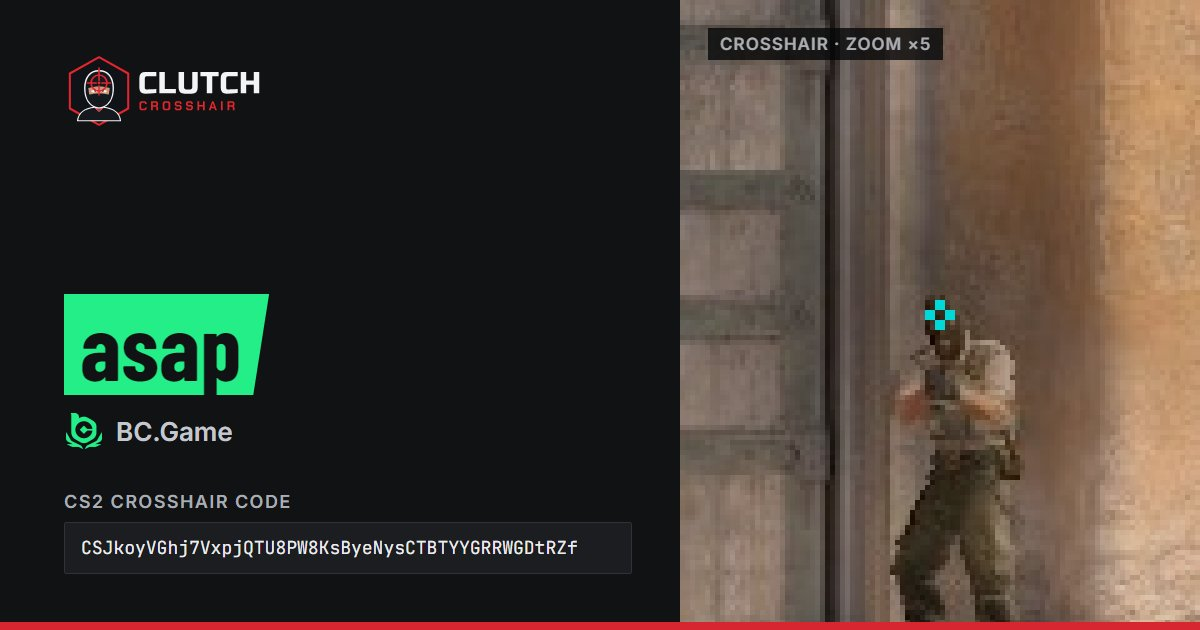
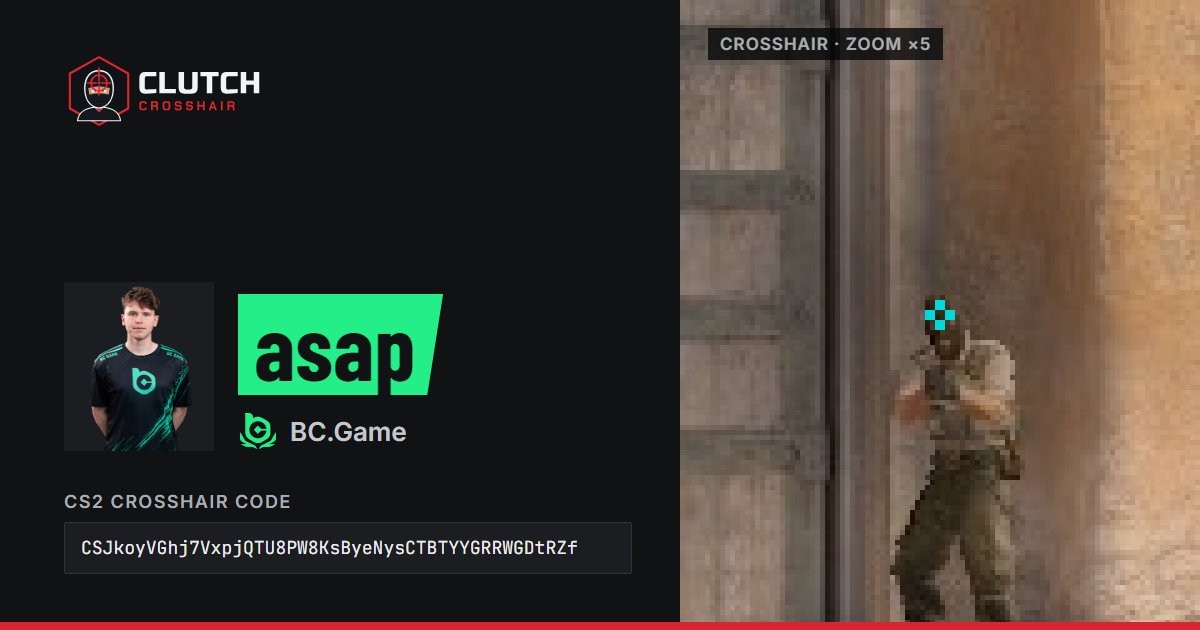
Photo : asap (tous les joueurs ont leur photo)

Changed region(s): [[0.0308, 0.4524, 0.37, 0.7238]]

diff --git a/ru/players/asap.html b/ru/players/asap.html
@@ -38,21 +38,21 @@
     <meta property="og:title" content="Прицел asap в CS2: код">
     <meta property="og:description" content="Скопируйте код прицела asap (BC.Game) для CS2 в один клик: предпросмотр в реальном размере, консольные команды и настройки. Из матча от 22/10/2026.">
     <meta property="og:url" content="https://clutchcrosshair.com/ru/players/asap">
-    <meta property="og:image" content="https://clutchcrosshair.com/og/asap.jpg?v=7b72e6c3d7">
+    <meta property="og:image" content="https://clutchcrosshair.com/og/asap.jpg?v=5ab0ecd210">
     <meta property="og:image:width" content="1200">
     <meta property="og:image:height" content="630">
     <meta property="og:image:alt" content="Прицел asap в CS2: превью и код">
     <meta name="twitter:card" content="summary_large_image">
     <meta name="twitter:title" content="Прицел asap в CS2: код">
     <meta name="twitter:description" content="Скопируйте код прицела asap (BC.Game) для CS2 в один клик: предпросмотр в реальном размере, консольные команды и настройки. Из матча от 22/10/2026.">
-    <meta name="twitter:image" content="https://clutchcrosshair.com/og/asap.jpg?v=7b72e6c3d7">
+    <meta name="twitter:image" content="https://clutchcrosshair.com/og/asap.jpg?v=5ab0ecd210">
     <link rel="preload" href="../../fonts/inter-latin.woff2" as="font" type="font/woff2" crossorigin>
     <link rel="preload" href="../../fonts/barlow-condensed-700-latin.woff2" as="font" type="font/woff2" crossorigin>
     <link rel="stylesheet" href="../../style.min.css?v=681f2d2464">
     <link rel="modulepreload" href="../../crosshair.min.js?v=da13dcace5">
     <link rel="modulepreload" href="../../lib/csgo-sharecode.js">
     <link rel="preload" href="../../preview-bg.webp?v=282ecb7043" as="image" type="image/webp">
-    <script type="application/ld+json">{"@context":"https://schema.org","@graph":[{"@type":"WebPage","@id":"https://clutchcrosshair.com/ru/players/asap","url":"https://clutchcrosshair.com/ru/players/asap","name":"Код прицела asap в CS2","inLanguage":"ru","isPartOf":{"@id":"https://clutchcrosshair.com/#website"},"about":{"@id":"https://clutchcrosshair.com/ru/players/asap#person"},"breadcrumb":{"@id":"https://clutchcrosshair.com/ru/players/asap#breadcrumb"},"dateModified":"2026-10-22"},{"@type":"BreadcrumbList","@id":"https://clutchcrosshair.com/ru/players/asap#breadcrumb","itemListElement":[{"@type":"ListItem","position":1,"name":"Главная","item":"https://clutchcrosshair.com/ru/"},{"@type":"ListItem","position":2,"name":"Прицел asap","item":"https://clutchcrosshair.com/ru/players/asap"}]},{"@type":"Person","@id":"https://clutchcrosshair.com/ru/players/asap#person","name":"asap","description":"asap — профессиональный игрок CS2 в команде BC.Game. Код прицела взят из демо официального матча.","url":"https://clutchcrosshair.com/ru/players/asap","memberOf":{"@type":"SportsTeam","name":"BC.Game","sport":"Counter-Strike 2"},"sameAs":["https://steamcommunity.com/profiles/76561198028656944"]},{"@type":"FAQPage","@id":"https://clutchcrosshair.com/ru/players/asap#faq","mainEntity":[{"@type":"Question","name":"Какой код прицела у asap в CS2?","acceptedAnswer":{"@type":"Answer","text":"Код прицела asap в CS2: CSJkoyVGhj7VxpjQTU8PW8KsByeNysCTBTYYGRRWGDtRZf. Он взят из демо официального матча от 22/10/2026."}},{"@type":"Question","name":"Какие настройки прицела у asap?","acceptedAnswer":{"@type":"Answer","text":"asap играет с прицелом: очень короткий, голубой, статичный — длина 2 px, толщина 2 px, зазор 1, без обводки и без точки в центре; настроен для высоты экрана 960p."}},{"@type":"Question","name":"У каких про-игроков такой же прицел, как у asap?","acceptedAnswer":{"@type":"Answer","text":"У Senzu точно такой же код прицела CS2, как у asap."}}]}]}</script>
+    <script type="application/ld+json">{"@context":"https://schema.org","@graph":[{"@type":"WebPage","@id":"https://clutchcrosshair.com/ru/players/asap","url":"https://clutchcrosshair.com/ru/players/asap","name":"Код прицела asap в CS2","inLanguage":"ru","isPartOf":{"@id":"https://clutchcrosshair.com/#website"},"about":{"@id":"https://clutchcrosshair.com/ru/players/asap#person"},"breadcrumb":{"@id":"https://clutchcrosshair.com/ru/players/asap#breadcrumb"},"dateModified":"2026-10-22","primaryImageOfPage":{"@type":"ImageObject","url":"https://clutchcrosshair.com/photos/asap.webp"}},{"@type":"BreadcrumbList","@id":"https://clutchcrosshair.com/ru/players/asap#breadcrumb","itemListElement":[{"@type":"ListItem","position":1,"name":"Главная","item":"https://clutchcrosshair.com/ru/"},{"@type":"ListItem","position":2,"name":"Прицел asap","item":"https://clutchcrosshair.com/ru/players/asap"}]},{"@type":"Person","@id":"https://clutchcrosshair.com/ru/players/asap#person","name":"asap","description":"asap — профессиональный игрок CS2 в команде BC.Game. Код прицела взят из демо официального матча.","url":"https://clutchcrosshair.com/ru/players/asap","memberOf":{"@type":"SportsTeam","name":"BC.Game","sport":"Counter-Strike 2"},"image":"https://clutchcrosshair.com/photos/asap.webp","sameAs":["https://steamcommunity.com/profiles/76561198028656944"]},{"@type":"FAQPage","@id":"https://clutchcrosshair.com/ru/players/asap#faq","mainEntity":[{"@type":"Question","name":"Какой код прицела у asap в CS2?","acceptedAnswer":{"@type":"Answer","text":"Код прицела asap в CS2: CSJkoyVGhj7VxpjQTU8PW8KsByeNysCTBTYYGRRWGDtRZf. Он взят из демо официального матча от 22/10/2026."}},{"@type":"Question","name":"Какие настройки прицела у asap?","acceptedAnswer":{"@type":"Answer","text":"asap играет с прицелом: очень короткий, голубой, статичный — длина 2 px, толщина 2 px, зазор 1, без обводки и без точки в центре; настроен для высоты экрана 960p."}},{"@type":"Question","name":"У каких про-игроков такой же прицел, как у asap?","acceptedAnswer":{"@type":"Answer","text":"У Senzu точно такой же код прицела CS2, как у asap."}}]}]}</script>
     <script src="../../consent.min.js?v=fdcf5763f3" data-legal="../legal" defer></script>
     <script src="../../lang-banner.min.js?v=aec40a5320" defer></script>
 </head>
@@ -92,7 +92,7 @@
         <nav class="breadcrumb" aria-label="Навигационная цепочка"><a href="../" class="crumb-home"><svg class="crumb-icon" viewBox="0 0 24 24" aria-hidden="true"><path d="M12 3 2 11.5h3V21h5.5v-6h3v6H19v-9.5h3L12 3Z"/></svg>Главная</a> › <span>asap</span></nav>
 
         <div class="player-head">
-            <div class="player-photo">AS</div>
+            <img class="player-photo" src="../../photos/md/asap.webp?v=39e15d0aa9" alt="asap, BC.Game" width="120" height="134" fetchpriority="high" decoding="async">
             <div>
                 <h1>Прицел asap в CS2</h1>
                 <p class="player-team"><img class="player-team-logo" src="../../logos/sm/bcgame.webp?v=652558305a" alt="" width="20" height="20">BC.Game</p>

diff --git a/es/players/asap.html b/es/players/asap.html
@@ -38,21 +38,21 @@
     <meta property="og:title" content="Código de crosshair de asap en CS2">
     <meta property="og:description" content="Copia en un clic el código de crosshair de CS2 de asap (BC.Game): vista previa a tamaño real, comandos y ajustes. Partido del 22/10/2026.">
     <meta property="og:url" content="https://clutchcrosshair.com/es/players/asap">
-    <meta property="og:image" content="https://clutchcrosshair.com/og/asap.jpg?v=7b72e6c3d7">
+    <meta property="og:image" content="https://clutchcrosshair.com/og/asap.jpg?v=5ab0ecd210">
     <meta property="og:image:width" content="1200">
     <meta property="og:image:height" content="630">
     <meta property="og:image:alt" content="Crosshair de asap en CS2: vista previa y código">
     <meta name="twitter:card" content="summary_large_image">
     <meta name="twitter:title" content="Código de crosshair de asap en CS2">
     <meta name="twitter:description" content="Copia en un clic el código de crosshair de CS2 de asap (BC.Game): vista previa a tamaño real, comandos y ajustes. Partido del 22/10/2026.">
-    <meta name="twitter:image" content="https://clutchcrosshair.com/og/asap.jpg?v=7b72e6c3d7">
+    <meta name="twitter:image" content="https://clutchcrosshair.com/og/asap.jpg?v=5ab0ecd210">
     <link rel="preload" href="../../fonts/inter-latin.woff2" as="font" type="font/woff2" crossorigin>
     <link rel="preload" href="../../fonts/barlow-condensed-700-latin.woff2" as="font" type="font/woff2" crossorigin>
     <link rel="stylesheet" href="../../style.min.css?v=681f2d2464">
     <link rel="modulepreload" href="../../crosshair.min.js?v=da13dcace5">
     <link rel="modulepreload" href="../../lib/csgo-sharecode.js">
     <link rel="preload" href="../../preview-bg.webp?v=282ecb7043" as="image" type="image/webp">
-    <script type="application/ld+json">{"@context":"https://schema.org","@graph":[{"@type":"WebPage","@id":"https://clutchcrosshair.com/es/players/asap","url":"https://clutchcrosshair.com/es/players/asap","name":"Código de crosshair de asap en CS2","inLanguage":"es","isPartOf":{"@id":"https://clutchcrosshair.com/#website"},"about":{"@id":"https://clutchcrosshair.com/es/players/asap#person"},"breadcrumb":{"@id":"https://clutchcrosshair.com/es/players/asap#breadcrumb"},"dateModified":"2026-10-22"},{"@type":"BreadcrumbList","@id":"https://clutchcrosshair.com/es/players/asap#breadcrumb","itemListElement":[{"@type":"ListItem","position":1,"name":"Inicio","item":"https://clutchcrosshair.com/es/"},{"@type":"ListItem","position":2,"name":"Crosshair de asap","item":"https://clutchcrosshair.com/es/players/asap"}]},{"@type":"Person","@id":"https://clutchcrosshair.com/es/players/asap#person","name":"asap","description":"asap es un jugador profesional de CS2 en BC.Game. Código de crosshair leído de la demo de un partido oficial.","url":"https://clutchcrosshair.com/es/players/asap","memberOf":{"@type":"SportsTeam","name":"BC.Game","sport":"Counter-Strike 2"},"sameAs":["https://steamcommunity.com/profiles/76561198028656944"]},{"@type":"FAQPage","@id":"https://clutchcrosshair.com/es/players/asap#faq","mainEntity":[{"@type":"Question","name":"¿Cuál es el código de crosshair de asap en CS2?","acceptedAnswer":{"@type":"Answer","text":"El código de crosshair de CS2 de asap es CSJkoyVGhj7VxpjQTU8PW8KsByeNysCTBTYYGRRWGDtRZf. Se leyó de la demo de un partido oficial el 22/10/2026."}},{"@type":"Question","name":"¿Qué ajustes de crosshair usa asap?","acceptedAnswer":{"@type":"Answer","text":"asap usa un crosshair cian muy corto estático: 2 px de largo, 2 px de grosor, una separación de 1, sin contorno y sin punto central, configurado para una altura de pantalla de 960p."}},{"@type":"Question","name":"¿Qué pros usan el mismo crosshair que asap?","acceptedAnswer":{"@type":"Answer","text":"Senzu usa exactamente el mismo código de crosshair de CS2 que asap."}}]}]}</script>
+    <script type="application/ld+json">{"@context":"https://schema.org","@graph":[{"@type":"WebPage","@id":"https://clutchcrosshair.com/es/players/asap","url":"https://clutchcrosshair.com/es/players/asap","name":"Código de crosshair de asap en CS2","inLanguage":"es","isPartOf":{"@id":"https://clutchcrosshair.com/#website"},"about":{"@id":"https://clutchcrosshair.com/es/players/asap#person"},"breadcrumb":{"@id":"https://clutchcrosshair.com/es/players/asap#breadcrumb"},"dateModified":"2026-10-22","primaryImageOfPage":{"@type":"ImageObject","url":"https://clutchcrosshair.com/photos/asap.webp"}},{"@type":"BreadcrumbList","@id":"https://clutchcrosshair.com/es/players/asap#breadcrumb","itemListElement":[{"@type":"ListItem","position":1,"name":"Inicio","item":"https://clutchcrosshair.com/es/"},{"@type":"ListItem","position":2,"name":"Crosshair de asap","item":"https://clutchcrosshair.com/es/players/asap"}]},{"@type":"Person","@id":"https://clutchcrosshair.com/es/players/asap#person","name":"asap","description":"asap es un jugador profesional de CS2 en BC.Game. Código de crosshair leído de la demo de un partido oficial.","url":"https://clutchcrosshair.com/es/players/asap","memberOf":{"@type":"SportsTeam","name":"BC.Game","sport":"Counter-Strike 2"},"image":"https://clutchcrosshair.com/photos/asap.webp","sameAs":["https://steamcommunity.com/profiles/76561198028656944"]},{"@type":"FAQPage","@id":"https://clutchcrosshair.com/es/players/asap#faq","mainEntity":[{"@type":"Question","name":"¿Cuál es el código de crosshair de asap en CS2?","acceptedAnswer":{"@type":"Answer","text":"El código de crosshair de CS2 de asap es CSJkoyVGhj7VxpjQTU8PW8KsByeNysCTBTYYGRRWGDtRZf. Se leyó de la demo de un partido oficial el 22/10/2026."}},{"@type":"Question","name":"¿Qué ajustes de crosshair usa asap?","acceptedAnswer":{"@type":"Answer","text":"asap usa un crosshair cian muy corto estático: 2 px de largo, 2 px de grosor, una separación de 1, sin contorno y sin punto central, configurado para una altura de pantalla de 960p."}},{"@type":"Question","name":"¿Qué pros usan el mismo crosshair que asap?","acceptedAnswer":{"@type":"Answer","text":"Senzu usa exactamente el mismo código de crosshair de CS2 que asap."}}]}]}</script>
     <script src="../../consent.min.js?v=fdcf5763f3" data-legal="../legal" defer></script>
     <script src="../../lang-banner.min.js?v=aec40a5320" defer></script>
 </head>
@@ -92,7 +92,7 @@
         <nav class="breadcrumb" aria-label="Ruta de navegación"><a href="../" class="crumb-home"><svg class="crumb-icon" viewBox="0 0 24 24" aria-hidden="true"><path d="M12 3 2 11.5h3V21h5.5v-6h3v6H19v-9.5h3L12 3Z"/></svg>Inicio</a> › <span>asap</span></nav>
 
         <div class="player-head">
-            <div class="player-photo">AS</div>
+            <img class="player-photo" src="../../photos/md/asap.webp?v=39e15d0aa9" alt="asap, BC.Game" width="120" height="134" fetchpriority="high" decoding="async">
             <div>
                 <h1>Crosshair de asap en CS2</h1>
                 <p class="player-team"><img class="player-team-logo" src="../../logos/sm/bcgame.webp?v=652558305a" alt="" width="20" height="20">BC.Game</p>

diff --git a/tr/players/asap.html b/tr/players/asap.html
@@ -38,21 +38,21 @@
     <meta property="og:title" content="asap CS2 Crosshair Kodu">
     <meta property="og:description" content="asap (BC.Game) CS2 crosshair kodunu tek tıkla kopyala: gerçek boyutlu önizleme, konsol komutları ve ayarlar. 22/10/2026 tarihli maçtan.">
     <meta property="og:url" content="https://clutchcrosshair.com/tr/players/asap">
-    <meta property="og:image" content="https://clutchcrosshair.com/og/asap.jpg?v=7b72e6c3d7">
+    <meta property="og:image" content="https://clutchcrosshair.com/og/asap.jpg?v=5ab0ecd210">
     <meta property="og:image:width" content="1200">
     <meta property="og:image:height" content="630">
     <meta property="og:image:alt" content="asap CS2 crosshair: önizleme ve kod">
     <meta name="twitter:card" content="summary_large_image">
     <meta name="twitter:title" content="asap CS2 Crosshair Kodu">
     <meta name="twitter:description" content="asap (BC.Game) CS2 crosshair kodunu tek tıkla kopyala: gerçek boyutlu önizleme, konsol komutları ve ayarlar. 22/10/2026 tarihli maçtan.">
-    <meta name="twitter:image" content="https://clutchcrosshair.com/og/asap.jpg?v=7b72e6c3d7">
+    <meta name="twitter:image" content="https://clutchcrosshair.com/og/asap.jpg?v=5ab0ecd210">
     <link rel="preload" href="../../fonts/inter-latin.woff2" as="font" type="font/woff2" crossorigin>
     <link rel="preload" href="../../fonts/barlow-condensed-700-latin.woff2" as="font" type="font/woff2" crossorigin>
     <link rel="stylesheet" href="../../style.min.css?v=681f2d2464">
     <link rel="modulepreload" href="../../crosshair.min.js?v=da13dcace5">
     <link rel="modulepreload" href="../../lib/csgo-sharecode.js">
     <link rel="preload" href="../../preview-bg.webp?v=282ecb7043" as="image" type="image/webp">
-    <script type="application/ld+json">{"@context":"https://schema.org","@graph":[{"@type":"WebPage","@id":"https://clutchcrosshair.com/tr/players/asap","url":"https://clutchcrosshair.com/tr/players/asap","name":"asap CS2 Crosshair Kodu","inLanguage":"tr","isPartOf":{"@id":"https://clutchcrosshair.com/#website"},"about":{"@id":"https://clutchcrosshair.com/tr/players/asap#person"},"breadcrumb":{"@id":"https://clutchcrosshair.com/tr/players/asap#breadcrumb"},"dateModified":"2026-10-22"},{"@type":"BreadcrumbList","@id":"https://clutchcrosshair.com/tr/players/asap#breadcrumb","itemListElement":[{"@type":"ListItem","position":1,"name":"Ana sayfa","item":"https://clutchcrosshair.com/tr/"},{"@type":"ListItem","position":2,"name":"asap crosshair","item":"https://clutchcrosshair.com/tr/players/asap"}]},{"@type":"Person","@id":"https://clutchcrosshair.com/tr/players/asap#person","name":"asap","description":"asap, BC.Game takımında oynayan profesyonel bir CS2 oyuncusu. CS2 crosshair kodu resmi bir maç demosundan alındı.","url":"https://clutchcrosshair.com/tr/players/asap","memberOf":{"@type":"SportsTeam","name":"BC.Game","sport":"Counter-Strike 2"},"sameAs":["https://steamcommunity.com/profiles/76561198028656944"]},{"@type":"FAQPage","@id":"https://clutchcrosshair.com/tr/players/asap#faq","mainEntity":[{"@type":"Question","name":"asap CS2 crosshair kodu nedir?","acceptedAnswer":{"@type":"Answer","text":"asap adlı oyuncunun CS2 crosshair kodu: CSJkoyVGhj7VxpjQTU8PW8KsByeNysCTBTYYGRRWGDtRZf. 22/10/2026 tarihli resmi bir maç demosundan alındı."}},{"@type":"Question","name":"asap hangi crosshair ayarlarını kullanıyor?","acceptedAnswer":{"@type":"Answer","text":"asap, çok kısa camgöbeği sabit bir crosshair kullanıyor: 2 px uzunluk, 2 px kalınlık, 1 boşluk, dış çizgi yok ve orta nokta yok; 960p ekran yüksekliğine göre ayarlanmış."}},{"@type":"Question","name":"Hangi prolar asap ile aynı crosshair'ı kullanıyor?","acceptedAnswer":{"@type":"Answer","text":"Senzu, asap ile birebir aynı CS2 crosshair kodunu kullanıyor."}}]}]}</script>
+    <script type="application/ld+json">{"@context":"https://schema.org","@graph":[{"@type":"WebPage","@id":"https://clutchcrosshair.com/tr/players/asap","url":"https://clutchcrosshair.com/tr/players/asap","name":"asap CS2 Crosshair Kodu","inLanguage":"tr","isPartOf":{"@id":"https://clutchcrosshair.com/#website"},"about":{"@id":"https://clutchcrosshair.com/tr/players/asap#person"},"breadcrumb":{"@id":"https://clutchcrosshair.com/tr/players/asap#breadcrumb"},"dateModified":"2026-10-22","primaryImageOfPage":{"@type":"ImageObject","url":"https://clutchcrosshair.com/photos/asap.webp"}},{"@type":"BreadcrumbList","@id":"https://clutchcrosshair.com/tr/players/asap#breadcrumb","itemListElement":[{"@type":"ListItem","position":1,"name":"Ana sayfa","item":"https://clutchcrosshair.com/tr/"},{"@type":"ListItem","position":2,"name":"asap crosshair","item":"https://clutchcrosshair.com/tr/players/asap"}]},{"@type":"Person","@id":"https://clutchcrosshair.com/tr/players/asap#person","name":"asap","description":"asap, BC.Game takımında oynayan profesyonel bir CS2 oyuncusu. CS2 crosshair kodu resmi bir maç demosundan alındı.","url":"https://clutchcrosshair.com/tr/players/asap","memberOf":{"@type":"SportsTeam","name":"BC.Game","sport":"Counter-Strike 2"},"image":"https://clutchcrosshair.com/photos/asap.webp","sameAs":["https://steamcommunity.com/profiles/76561198028656944"]},{"@type":"FAQPage","@id":"https://clutchcrosshair.com/tr/players/asap#faq","mainEntity":[{"@type":"Question","name":"asap CS2 crosshair kodu nedir?","acceptedAnswer":{"@type":"Answer","text":"asap adlı oyuncunun CS2 crosshair kodu: CSJkoyVGhj7VxpjQTU8PW8KsByeNysCTBTYYGRRWGDtRZf. 22/10/2026 tarihli resmi bir maç demosundan alındı."}},{"@type":"Question","name":"asap hangi crosshair ayarlarını kullanıyor?","acceptedAnswer":{"@type":"Answer","text":"asap, çok kısa camgöbeği sabit bir crosshair kullanıyor: 2 px uzunluk, 2 px kalınlık, 1 boşluk, dış çizgi yok ve orta nokta yok; 960p ekran yüksekliğine göre ayarlanmış."}},{"@type":"Question","name":"Hangi prolar asap ile aynı crosshair'ı kullanıyor?","acceptedAnswer":{"@type":"Answer","text":"Senzu, asap ile birebir aynı CS2 crosshair kodunu kullanıyor."}}]}]}</script>
     <script src="../../consent.min.js?v=fdcf5763f3" data-legal="../legal" defer></script>
     <script src="../../lang-banner.min.js?v=aec40a5320" defer></script>
 </head>
@@ -92,7 +92,7 @@
         <nav class="breadcrumb" aria-label="Sayfa yolu"><a href="../" class="crumb-home"><svg class="crumb-icon" viewBox="0 0 24 24" aria-hidden="true"><path d="M12 3 2 11.5h3V21h5.5v-6h3v6H19v-9.5h3L12 3Z"/></svg>Ana sayfa</a> › <span>asap</span></nav>
 
         <div class="player-head">
-            <div class="player-photo">AS</div>
+            <img class="player-photo" src="../../photos/md/asap.webp?v=39e15d0aa9" alt="asap, BC.Game" width="120" height="134" fetchpriority="high" decoding="async">
             <div>
                 <h1>asap CS2 Crosshair</h1>
                 <p class="player-team"><img class="player-team-logo" src="../../logos/sm/bcgame.webp?v=652558305a" alt="" width="20" height="20">BC.Game</p>

diff --git a/fr/players/asap.html b/fr/players/asap.html
@@ -38,21 +38,21 @@
     <meta property="og:title" content="Code crosshair CS2 de asap">
     <meta property="og:description" content="Copie le code crosshair CS2 de asap (BC.Game) en un clic : aperçu taille réelle, commandes console et réglages. Lu dans un match du 22/10/2026.">
     <meta property="og:url" content="https://clutchcrosshair.com/fr/players/asap">
-    <meta property="og:image" content="https://clutchcrosshair.com/og/asap.jpg?v=7b72e6c3d7">
+    <meta property="og:image" content="https://clutchcrosshair.com/og/asap.jpg?v=5ab0ecd210">
     <meta property="og:image:width" content="1200">
     <meta property="og:image:height" content="630">
     <meta property="og:image:alt" content="Crosshair CS2 de asap : aperçu et code">
     <meta name="twitter:card" content="summary_large_image">
     <meta name="twitter:title" content="Code crosshair CS2 de asap">
     <meta name="twitter:description" content="Copie le code crosshair CS2 de asap (BC.Game) en un clic : aperçu taille réelle, commandes console et réglages. Lu dans un match du 22/10/2026.">
-    <meta name="twitter:image" content="https://clutchcrosshair.com/og/asap.jpg?v=7b72e6c3d7">
+    <meta name="twitter:image" content="https://clutchcrosshair.com/og/asap.jpg?v=5ab0ecd210">
     <link rel="preload" href="../../fonts/inter-latin.woff2" as="font" type="font/woff2" crossorigin>
     <link rel="preload" href="../../fonts/barlow-condensed-700-latin.woff2" as="font" type="font/woff2" crossorigin>
     <link rel="stylesheet" href="../../style.min.css?v=681f2d2464">
     <link rel="modulepreload" href="../../crosshair.min.js?v=da13dcace5">
     <link rel="modulepreload" href="../../lib/csgo-sharecode.js">
     <link rel="preload" href="../../preview-bg.webp?v=282ecb7043" as="image" type="image/webp">
-    <script type="application/ld+json">{"@context":"https://schema.org","@graph":[{"@type":"WebPage","@id":"https://clutchcrosshair.com/fr/players/asap","url":"https://clutchcrosshair.com/fr/players/asap","name":"Code crosshair CS2 de asap","inLanguage":"fr","isPartOf":{"@id":"https://clutchcrosshair.com/#website"},"about":{"@id":"https://clutchcrosshair.com/fr/players/asap#person"},"breadcrumb":{"@id":"https://clutchcrosshair.com/fr/players/asap#breadcrumb"},"dateModified":"2026-10-22"},{"@type":"BreadcrumbList","@id":"https://clutchcrosshair.com/fr/players/asap#breadcrumb","itemListElement":[{"@type":"ListItem","position":1,"name":"Accueil","item":"https://clutchcrosshair.com/fr/"},{"@type":"ListItem","position":2,"name":"Crosshair de asap","item":"https://clutchcrosshair.com/fr/players/asap"}]},{"@type":"Person","@id":"https://clutchcrosshair.com/fr/players/asap#person","name":"asap","description":"asap est un joueur pro CS2 de BC.Game. Code crosshair CS2 lu dans la démo d'un match officiel.","url":"https://clutchcrosshair.com/fr/players/asap","memberOf":{"@type":"SportsTeam","name":"BC.Game","sport":"Counter-Strike 2"},"sameAs":["https://steamcommunity.com/profiles/76561198028656944"]},{"@type":"FAQPage","@id":"https://clutchcrosshair.com/fr/players/asap#faq","mainEntity":[{"@type":"Question","name":"Quel est le code crosshair CS2 de asap ?","acceptedAnswer":{"@type":"Answer","text":"Le code crosshair CS2 de asap est CSJkoyVGhj7VxpjQTU8PW8KsByeNysCTBTYYGRRWGDtRZf. Il a été lu dans la démo d'un match officiel du 22/10/2026."}},{"@type":"Question","name":"Quels réglages de crosshair utilise asap ?","acceptedAnswer":{"@type":"Answer","text":"asap utilise un crosshair cyan très court statique : 2 px de long, 2 px d'épaisseur, un écart de 1, pas de contour et pas de point central, réglé pour une hauteur d'écran de 960p."}},{"@type":"Question","name":"Quels pros utilisent le même crosshair que asap ?","acceptedAnswer":{"@type":"Answer","text":"Senzu utilise exactement le même code crosshair CS2 que asap."}}]}]}</script>
+    <script type="application/ld+json">{"@context":"https://schema.org","@graph":[{"@type":"WebPage","@id":"https://clutchcrosshair.com/fr/players/asap","url":"https://clutchcrosshair.com/fr/players/asap","name":"Code crosshair CS2 de asap","inLanguage":"fr","isPartOf":{"@id":"https://clutchcrosshair.com/#website"},"about":{"@id":"https://clutchcrosshair.com/fr/players/asap#person"},"breadcrumb":{"@id":"https://clutchcrosshair.com/fr/players/asap#breadcrumb"},"dateModified":"2026-10-22","primaryImageOfPage":{"@type":"ImageObject","url":"https://clutchcrosshair.com/photos/asap.webp"}},{"@type":"BreadcrumbList","@id":"https://clutchcrosshair.com/fr/players/asap#breadcrumb","itemListElement":[{"@type":"ListItem","position":1,"name":"Accueil","item":"https://clutchcrosshair.com/fr/"},{"@type":"ListItem","position":2,"name":"Crosshair de asap","item":"https://clutchcrosshair.com/fr/players/asap"}]},{"@type":"Person","@id":"https://clutchcrosshair.com/fr/players/asap#person","name":"asap","description":"asap est un joueur pro CS2 de BC.Game. Code crosshair CS2 lu dans la démo d'un match officiel.","url":"https://clutchcrosshair.com/fr/players/asap","memberOf":{"@type":"SportsTeam","name":"BC.Game","sport":"Counter-Strike 2"},"image":"https://clutchcrosshair.com/photos/asap.webp","sameAs":["https://steamcommunity.com/profiles/76561198028656944"]},{"@type":"FAQPage","@id":"https://clutchcrosshair.com/fr/players/asap#faq","mainEntity":[{"@type":"Question","name":"Quel est le code crosshair CS2 de asap ?","acceptedAnswer":{"@type":"Answer","text":"Le code crosshair CS2 de asap est CSJkoyVGhj7VxpjQTU8PW8KsByeNysCTBTYYGRRWGDtRZf. Il a été lu dans la démo d'un match officiel du 22/10/2026."}},{"@type":"Question","name":"Quels réglages de crosshair utilise asap ?","acceptedAnswer":{"@type":"Answer","text":"asap utilise un crosshair cyan très court statique : 2 px de long, 2 px d'épaisseur, un écart de 1, pas de contour et pas de point central, réglé pour une hauteur d'écran de 960p."}},{"@type":"Question","name":"Quels pros utilisent le même crosshair que asap ?","acceptedAnswer":{"@type":"Answer","text":"Senzu utilise exactement le même code crosshair CS2 que asap."}}]}]}</script>
     <script src="../../consent.min.js?v=fdcf5763f3" data-legal="../legal" defer></script>
     <script src="../../lang-banner.min.js?v=aec40a5320" defer></script>
 </head>
@@ -92,7 +92,7 @@
         <nav class="breadcrumb" aria-label="Fil d'Ariane"><a href="../" class="crumb-home"><svg class="crumb-icon" viewBox="0 0 24 24" aria-hidden="true"><path d="M12 3 2 11.5h3V21h5.5v-6h3v6H19v-9.5h3L12 3Z"/></svg>Accueil</a> › <span>asap</span></nav>
 
         <div class="player-head">
-            <div class="player-photo">AS</div>
+            <img class="player-photo" src="../../photos/md/asap.webp?v=39e15d0aa9" alt="asap, BC.Game" width="120" height="134" fetchpriority="high" decoding="async">
             <div>
                 <h1>Crosshair CS2 de asap</h1>
                 <p class="player-team"><img class="player-team-logo" src="../../logos/sm/bcgame.webp?v=652558305a" alt="" width="20" height="20">BC.Game</p>

diff --git a/players/asap.html b/players/asap.html
@@ -37,21 +37,21 @@
     <meta property="og:title" content="asap CS2 Crosshair Code">
     <meta property="og:description" content="Copy asap&#39;s CS2 crosshair code (BC.Game) in one click: real-size preview, console commands and settings. From a match on 22/10/2026.">
     <meta property="og:url" content="https://clutchcrosshair.com/players/asap">
-    <meta property="og:image" content="https://clutchcrosshair.com/og/asap.jpg?v=7b72e6c3d7">
+    <meta property="og:image" content="https://clutchcrosshair.com/og/asap.jpg?v=5ab0ecd210">
     <meta property="og:image:width" content="1200">
     <meta property="og:image:height" content="630">
     <meta property="og:image:alt" content="asap CS2 crosshair: preview and share code">
     <meta name="twitter:card" content="summary_large_image">
     <meta name="twitter:title" content="asap CS2 Crosshair Code">
     <meta name="twitter:description" content="Copy asap&#39;s CS2 crosshair code (BC.Game) in one click: real-size preview, console commands and settings. From a match on 22/10/2026.">
-    <meta name="twitter:image" content="https://clutchcrosshair.com/og/asap.jpg?v=7b72e6c3d7">
+    <meta name="twitter:image" content="https://clutchcrosshair.com/og/asap.jpg?v=5ab0ecd210">
     <link rel="preload" href="../fonts/inter-latin.woff2" as="font" type="font/woff2" crossorigin>
     <link rel="preload" href="../fonts/barlow-condensed-700-latin.woff2" as="font" type="font/woff2" crossorigin>
     <link rel="stylesheet" href="../style.min.css?v=681f2d2464">
     <link rel="modulepreload" href="../crosshair.min.js?v=da13dcace5">
     <link rel="modulepreload" href="../lib/csgo-sharecode.js">
     <link rel="preload" href="../preview-bg.webp?v=282ecb7043" as="image" type="image/webp">
-    <script type="application/ld+json">{"@context":"https://schema.org","@graph":[{"@type":"WebPage","@id":"https://clutchcrosshair.com/players/asap","url":"https://clutchcrosshair.com/players/asap","name":"asap CS2 Crosshair Code","inLanguage":"en","isPartOf":{"@id":"https://clutchcrosshair.com/#website"},"about":{"@id":"https://clutchcrosshair.com/players/asap#person"},"breadcrumb":{"@id":"https://clutchcrosshair.com/players/asap#breadcrumb"},"dateModified":"2026-10-22"},{"@type":"BreadcrumbList","@id":"https://clutchcrosshair.com/players/asap#breadcrumb","itemListElement":[{"@type":"ListItem","position":1,"name":"Home","item":"https://clutchcrosshair.com/"},{"@type":"ListItem","position":2,"name":"asap crosshair","item":"https://clutchcrosshair.com/players/asap"}]},{"@type":"Person","@id":"https://clutchcrosshair.com/players/asap#person","name":"asap","description":"asap is a CS2 pro player for BC.Game. CS2 crosshair code read from an official match demo.","url":"https://clutchcrosshair.com/players/asap","memberOf":{"@type":"SportsTeam","name":"BC.Game","sport":"Counter-Strike 2"},"sameAs":["https://steamcommunity.com/profiles/76561198028656944"]},{"@type":"FAQPage","@id":"https://clutchcrosshair.com/players/asap#faq","mainEntity":[{"@type":"Question","name":"What is asap's CS2 crosshair code?","acceptedAnswer":{"@type":"Answer","text":"asap's CS2 crosshair code is CSJkoyVGhj7VxpjQTU8PW8KsByeNysCTBTYYGRRWGDtRZf. It was read from an official match demo on 22/10/2026."}},{"@type":"Question","name":"What crosshair settings does asap use?","acceptedAnswer":{"@type":"Answer","text":"asap uses a very short cyan static crosshair: 2 px long, 2 px thick, a gap of 1, no outline and no center dot, set for a 960p screen height."}},{"@type":"Question","name":"Which pros use the same crosshair as asap?","acceptedAnswer":{"@type":"Answer","text":"Senzu uses exactly the same CS2 crosshair code as asap."}}]}]}</script>
+    <script type="application/ld+json">{"@context":"https://schema.org","@graph":[{"@type":"WebPage","@id":"https://clutchcrosshair.com/players/asap","url":"https://clutchcrosshair.com/players/asap","name":"asap CS2 Crosshair Code","inLanguage":"en","isPartOf":{"@id":"https://clutchcrosshair.com/#website"},"about":{"@id":"https://clutchcrosshair.com/players/asap#person"},"breadcrumb":{"@id":"https://clutchcrosshair.com/players/asap#breadcrumb"},"dateModified":"2026-10-22","primaryImageOfPage":{"@type":"ImageObject","url":"https://clutchcrosshair.com/photos/asap.webp"}},{"@type":"BreadcrumbList","@id":"https://clutchcrosshair.com/players/asap#breadcrumb","itemListElement":[{"@type":"ListItem","position":1,"name":"Home","item":"https://clutchcrosshair.com/"},{"@type":"ListItem","position":2,"name":"asap crosshair","item":"https://clutchcrosshair.com/players/asap"}]},{"@type":"Person","@id":"https://clutchcrosshair.com/players/asap#person","name":"asap","description":"asap is a CS2 pro player for BC.Game. CS2 crosshair code read from an official match demo.","url":"https://clutchcrosshair.com/players/asap","memberOf":{"@type":"SportsTeam","name":"BC.Game","sport":"Counter-Strike 2"},"image":"https://clutchcrosshair.com/photos/asap.webp","sameAs":["https://steamcommunity.com/profiles/76561198028656944"]},{"@type":"FAQPage","@id":"https://clutchcrosshair.com/players/asap#faq","mainEntity":[{"@type":"Question","name":"What is asap's CS2 crosshair code?","acceptedAnswer":{"@type":"Answer","text":"asap's CS2 crosshair code is CSJkoyVGhj7VxpjQTU8PW8KsByeNysCTBTYYGRRWGDtRZf. It was read from an official match demo on 22/10/2026."}},{"@type":"Question","name":"What crosshair settings does asap use?","acceptedAnswer":{"@type":"Answer","text":"asap uses a very short cyan static crosshair: 2 px long, 2 px thick, a gap of 1, no outline and no center dot, set for a 960p screen height."}},{"@type":"Question","name":"Which pros use the same crosshair as asap?","acceptedAnswer":{"@type":"Answer","text":"Senzu uses exactly the same CS2 crosshair code as asap."}}]}]}</script>
     <script src="../consent.min.js?v=fdcf5763f3" data-legal="../legal" defer></script>
     <script src="../lang-banner.min.js?v=aec40a5320" defer></script>
 </head>
@@ -91,7 +91,7 @@
         <nav class="breadcrumb" aria-label="Breadcrumb"><a href="../" class="crumb-home"><svg class="crumb-icon" viewBox="0 0 24 24" aria-hidden="true"><path d="M12 3 2 11.5h3V21h5.5v-6h3v6H19v-9.5h3L12 3Z"/></svg>Home</a> › <span>asap</span></nav>
 
         <div class="player-head">
-            <div class="player-photo">AS</div>
+            <img class="player-photo" src="../photos/md/asap.webp?v=39e15d0aa9" alt="asap, BC.Game" width="120" height="134" fetchpriority="high" decoding="async">
             <div>
                 <h1>asap CS2 Crosshair</h1>
                 <p class="player-team"><img class="player-team-logo" src="../logos/sm/bcgame.webp?v=652558305a" alt="" width="20" height="20">BC.Game</p>

diff --git a/es/index.html b/es/index.html
@@ -1807,10 +1807,10 @@
                 </div>
             </div>
         </article>
-                        <article class="card" data-slug="asap" data-team="BC.Game" data-name="asap" data-updated="20261022" data-date="22/10/2026" data-twins="senzu:Senzu" style="--team: #23EE88; --on-team: #111214">
+                        <article class="card" data-slug="asap" data-team="BC.Game" data-name="asap" data-updated="20261022" data-date="22/10/2026" data-photo="../photos/md/asap.webp?v=39e15d0aa9" data-twins="senzu:Senzu" style="--team: #23EE88; --on-team: #111214">
             <div class="card-top">
                 <h3><a href="players/asap">asap</a></h3>
-                <div class="card-photo">AS</div>
+                <img class="card-photo" src="../photos/sm/asap.webp?v=3c8a451adb" alt="asap" width="76" height="86" loading="lazy" decoding="async" data-initials="AS" onerror="photoFallback(this)">
             </div>
             <div class="card-meta">
                 <span class="team"><span class="team-badge" style="--c: #23EE88"><img src="../logos/sm/bcgame.webp?v=652558305a" alt="" width="16" height="16" decoding="async" onerror="this.remove()"></span>BC.Game</span>

diff --git a/fr/index.html b/fr/index.html
@@ -1807,10 +1807,10 @@
                 </div>
             </div>
         </article>
-                        <article class="card" data-slug="asap" data-team="BC.Game" data-name="asap" data-updated="20261022" data-date="22/10/2026" data-twins="senzu:Senzu" style="--team: #23EE88; --on-team: #111214">
+                        <article class="card" data-slug="asap" data-team="BC.Game" data-name="asap" data-updated="20261022" data-date="22/10/2026" data-photo="../photos/md/asap.webp?v=39e15d0aa9" data-twins="senzu:Senzu" style="--team: #23EE88; --on-team: #111214">
             <div class="card-top">
                 <h3><a href="players/asap">asap</a></h3>
-                <div class="card-photo">AS</div>
+                <img class="card-photo" src="../photos/sm/asap.webp?v=3c8a451adb" alt="asap" width="76" height="86" loading="lazy" decoding="async" data-initials="AS" onerror="photoFallback(this)">
             </div>
             <div class="card-meta">
                 <span class="team"><span class="team-badge" style="--c: #23EE88"><img src="../logos/sm/bcgame.webp?v=652558305a" alt="" width="16" height="16" decoding="async" onerror="this.remove()"></span>BC.Game</span>

diff --git a/ru/index.html b/ru/index.html
@@ -1807,10 +1807,10 @@
                 </div>
             </div>
         </article>
-                        <article class="card" data-slug="asap" data-team="BC.Game" data-name="asap" data-updated="20261022" data-date="22/10/2026" data-twins="senzu:Senzu" style="--team: #23EE88; --on-team: #111214">
+                        <article class="card" data-slug="asap" data-team="BC.Game" data-name="asap" data-updated="20261022" data-date="22/10/2026" data-photo="../photos/md/asap.webp?v=39e15d0aa9" data-twins="senzu:Senzu" style="--team: #23EE88; --on-team: #111214">
             <div class="card-top">
                 <h3><a href="players/asap">asap</a></h3>
-                <div class="card-photo">AS</div>
+                <img class="card-photo" src="../photos/sm/asap.webp?v=3c8a451adb" alt="asap" width="76" height="86" loading="lazy" decoding="async" data-initials="AS" onerror="photoFallback(this)">
             </div>
             <div class="card-meta">
                 <span class="team"><span class="team-badge" style="--c: #23EE88"><img src="../logos/sm/bcgame.webp?v=652558305a" alt="" width="16" height="16" decoding="async" onerror="this.remove()"></span>BC.Game</span>

diff --git a/tr/index.html b/tr/index.html
@@ -1807,10 +1807,10 @@
                 </div>
             </div>
         </article>
-                        <article class="card" data-slug="asap" data-team="BC.Game" data-name="asap" data-updated="20261022" data-date="22/10/2026" data-twins="senzu:Senzu" style="--team: #23EE88; --on-team: #111214">
+                        <article class="card" data-slug="asap" data-team="BC.Game" data-name="asap" data-updated="20261022" data-date="22/10/2026" data-photo="../photos/md/asap.webp?v=39e15d0aa9" data-twins="senzu:Senzu" style="--team: #23EE88; --on-team: #111214">
             <div class="card-top">
                 <h3><a href="players/asap">asap</a></h3>
-                <div class="card-photo">AS</div>
+                <img class="card-photo" src="../photos/sm/asap.webp?v=3c8a451adb" alt="asap" width="76" height="86" loading="lazy" decoding="async" data-initials="AS" onerror="photoFallback(this)">
             </div>
             <div class="card-meta">
                 <span class="team"><span class="team-badge" style="--c: #23EE88"><img src="../logos/sm/bcgame.webp?v=652558305a" alt="" width="16" height="16" decoding="async" onerror="this.remove()"></span>BC.Game</span>

diff --git a/index.html b/index.html
@@ -1806,10 +1806,10 @@
                 </div>
             </div>
         </article>
-                        <article class="card" data-slug="asap" data-team="BC.Game" data-name="asap" data-updated="20261022" data-date="22/10/2026" data-twins="senzu:Senzu" style="--team: #23EE88; --on-team: #111214">
+                        <article class="card" data-slug="asap" data-team="BC.Game" data-name="asap" data-updated="20261022" data-date="22/10/2026" data-photo="photos/md/asap.webp?v=39e15d0aa9" data-twins="senzu:Senzu" style="--team: #23EE88; --on-team: #111214">
             <div class="card-top">
                 <h3><a href="players/asap">asap</a></h3>
-                <div class="card-photo">AS</div>
+                <img class="card-photo" src="photos/sm/asap.webp?v=3c8a451adb" alt="asap" width="76" height="86" loading="lazy" decoding="async" data-initials="AS" onerror="photoFallback(this)">
             </div>
             <div class="card-meta">
                 <span class="team"><span class="team-badge" style="--c: #23EE88"><img src="logos/sm/bcgame.webp?v=652558305a" alt="" width="16" height="16" decoding="async" onerror="this.remove()"></span>BC.Game</span>
